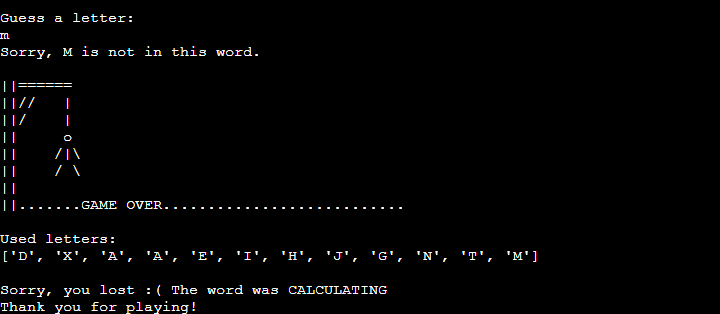
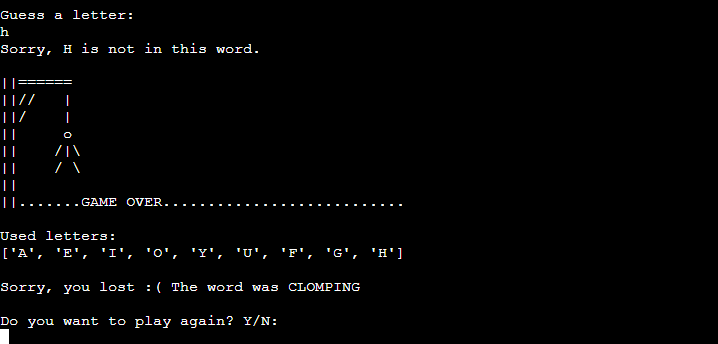
Add: Readme table of content, changes about replay, update title screen picture

diff --git a/README.md b/README.md
@@ -1,3 +1,34 @@
+- [Hangman game](#hangman-game)
+  * [Strategy](#strategy)
+  * [Scope](#scope)
+    + [User goals:](#user-goals-)
+    + [User Stories:](#user-stories-)
+  * [Structure of the game](#structure-of-the-game)
+    + [Start:](#start-)
+    + [The game:](#the-game-)
+    + [The End / Game Over](#the-end---game-over)
+  * [Skeleton:](#skeleton-)
+  * [Surface:](#surface-)
+  * [Testing with code validators](#testing-with-code-validators)
+  * [User Testing](#user-testing)
+    + [As a user I can start the game.](#as-a-user-i-can-start-the-game)
+    + [As a user I feedback about how to play the game.](#as-a-user-i-feedback-about-how-to-play-the-game)
+    + [As a user I can guess a letter.](#as-a-user-i-can-guess-a-letter)
+    + [As a user I can choose to replay.](#as-a-user-i-can-choose-to-replay)
+  * [Bugs and other issues:](#bugs-and-other-issues-)
+    + [Fixed Issues](#fixed-issues)
+    + [Not fixed](#not-fixed)
+  * [DEPLOYMENT](#deployment)
+    + [Before deploying](#before-deploying)
+    + [GitHub](#github)
+    + [Heroku](#heroku)
+  * [CREDITS](#credits)
+    + [Mentor:](#mentor-)
+    + [Random Word Library:](#random-word-library-)
+    + [Code:](#code-)
+    + [Validator:](#validator-)
+    + [Other things I used while coding this game:](#other-things-i-used-while-coding-this-game-)
+
 # Hangman game
 When I was in school, we used to play hangman on the classrooms chalkboard. It was exciting to try to guess, while the poor stick figure man was getting drawn... It's easy to learn, but hard enough to keep you entertained! So for my third project I'll make a hangman game you can play for your own fun.
 
@@ -8,7 +39,7 @@ This game is suitable for anyone who understands english language, but its very 
 User will most likely wish to challenge themselves, and be entertained.
 
 ## Scope
-Game lets the user guess untill they get the word right, or until they guess wrong six times. Game would be unlimitedly replayable, as long as there is words left.
+Game lets the user guess untill they get the word right, or until they guess wrong six times. Game is unlimitedly replayable, as long as there is words left in the API (and there sure is).
 
 ### User goals:
 What is their goal? What problem does this product or feature solve for them?
@@ -39,20 +70,24 @@ The main game loop lets user to input a letter. If the letter is in the word, it
 If letter is incorrect, it's added to the used letters list, and user loses a point.
 Game continues until all the letters in a word are guessed and word is revealed, or until user guesses wrong six times.
 
-Correct Answer
+**Correct Answer**
 
 ![](doc/readme-images/readme-correct-answer.png "")
 
-Wrong Answer
+**Wrong Answer**
 
 ![](doc/readme-images/readme-wrong-guess.png "")
 
 ### The End / Game Over
-When user guesses all the letters in the word, a winning picture is printed. Game ends.
+When user guesses all the letters in the word, a winning picture is printed. User is asked if they want to play again.
+
+**Picture from testing stage**
 
 ![](doc/readme-images/readme-win.png "")
 
-If user looses, a different picture is printed. The word is revealed.
+If user looses, a different picture is printed. The word is revealed. User is asked if they want to play again.
+
+** Game Over screen in final game**
 
 ![](doc/readme-images/readme-game-over.png "")
 
@@ -65,7 +100,9 @@ After a lot of testing and failing, I chose to use **global variables** when I n
 
 **Random Word API** gives a random english word. For this project it's chosen to give a random word of any length. While test playing it has given some really weird words, and it could be ideal to make a wordlist of more suitable words. However, using an API is part of what I wanted to learn in this project.
 
-**The End or Replay?** I was planning to have a replay in this game. However, I was runnign out of time, and chose to draw the line there. You can find the almost ready replay functions pushed to the **GitHub**, and then removed from game. This is not a big loss for the player, since they can just **run the program again** after playing, which is quicker than choosing to replay after game has ended.
+**The End or Replay?** I was planning to have a replay in this game. However, I was runnign out of time, and chose to draw the line there. You can find the almost ready replay functions pushed to the **GitHub**, and then removed from game. This would have not been a big loss for the player, since they can just **run the program again** after playing, which is as quick as clicking a "Y" to play again.
+
+After my last mentor meeting I was encouraged to take afinal look about the replay function, and got valuable tips on how to do it. Hence, the replay option was added to the final version of the game!
 
 ## Surface:
 For the visual side of this project I decided to add ASCII art for both the logo and the hangman pictures. 
@@ -103,9 +140,9 @@ If I guess wrong, game says "Sorry, *letter* is not in this word. Then game prin
 
 If I give an invalid answer, like accidentally push a key twice, the game doesn't count it as a guess and I can guess again. 
 
-### As a user I can choose to replay. *REMOVED*
-*This feature is removed.*
-As a user I can run the program again after it has ended by pushing **RUN PROGRAM** button.
+### As a user I can choose to replay.
+After I have finished the game (no matter if I lost or win) the game asks if I want to play again. It suggest for me to give Y or N as an answer, meaning yes or now. If I say Y, the game starts from beginning.
+If I answer N, or anything else, the game ends and I see a message that thanks me for playing.
 
 ## Bugs and other issues:
 ### Fixed Issues
@@ -113,10 +150,7 @@ Word prints down as a column.
 - FIX: add **end=" "** to print statement to make it a row.
 
 When turning letters of the word to underscore, word_to_blank function returns 10 character instead of 6. Is it counting "" and []-characters? The extra symbols are coming from the API. 
-Like this:
-```
-["yoking"]
-```
+Like this: ["yoking"]
 - FIX: added code to remove unwanted letters/symbols from the random word.
 
 Creating a infinite loop when guessing a letter.
@@ -146,13 +180,15 @@ When game is run on Heroku, the hangman-logo is not visible unless scrolled up. 
 User can cheat the game by giving any right letter until game counts that the word is long enough.
 - Fix: Moved the user_guess funtion to the game.py folder, so that it could access the global GUESSED_LETTERS variable. This makes sure that if a letter is in the word, but already guessed, it wasn't sent to guessed letters list as a duplicate.
 
+When replayed, game needs to fetch a new word, and clean up the list of the guessed letters.
+- Fixed with a new function for getting a new word, and status_quo function to set the game to starting point after user has chosen to play again.
+
+When getting a random word, needs to pick a word from list. Currently only picking a random letter.
+- Fixed. Not a list, but a new function (suggested by mentor), that fetches a new word.
+
 ### Not fixed
 
-*For the replay-funtion, currently removed from final product:*
-- When replayed, game needs to fetch a new word, and clean up the list of the guessed letters.
-- When getting a random word, needs to pick a word from list. Currently only picking a random letter.
-
-Replay currently not functional. Since time is running out, it will be saved for another day.
+It's been reported that when played, the game doesn't always take the user input. Currently unsolved. Possibly issue with timing out.
 
 ## DEPLOYMENT
 
@@ -196,15 +232,15 @@ I prefer deploying manually, so I chose **Manual deploy** and *main-branch*, *de
 Game is published at: [Hangman game](https://game-that-is-like-hangman.herokuapp.com/)
 
 
-# CREDITS
+## CREDITS
 
-## Mentor: 
+### Mentor: 
 Once again, thank you [Simen Daehlin](https://github.com/Eventyret/eventyret) for being my mentor!
 
-## Random Word Library:
+### Random Word Library:
 [Random Word API](https://random-word-api.herokuapp.com/home)
 
-## Code:
+### Code:
 [Remove character from string](https://www.journaldev.com/23674/python-remove-character-from-string)
 ```
  s = 'abc12321cba'
@@ -215,12 +251,14 @@ print(s.translate({ord(i): None for i in 'abc'}))
 [How to import modules from another folder](https://blog.finxter.com/python-how-to-import-modules-from-another-folder/)
 
 
-## Validator:
+### Validator:
 
 [PEP8](http://pep8online.com/)
 
-## Other things I used while coding this game:
+### Other things I used while coding this game:
 
 Balsamiq wireframes
 
 [Text to ASCII generator](https://patorjk.com/software/taag)
+
+<small><i><a href='http://ecotrust-canada.github.io/markdown-toc/'>Table of contents generated with markdown-toc</a></i></small>
